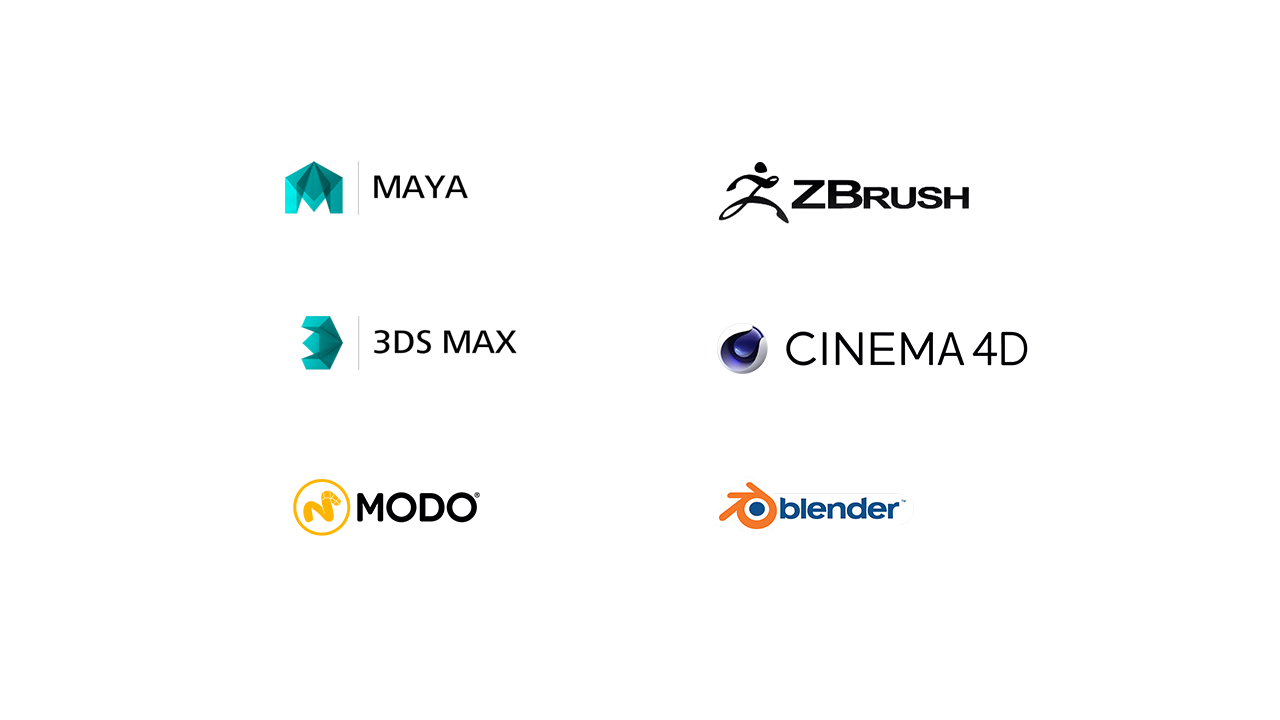
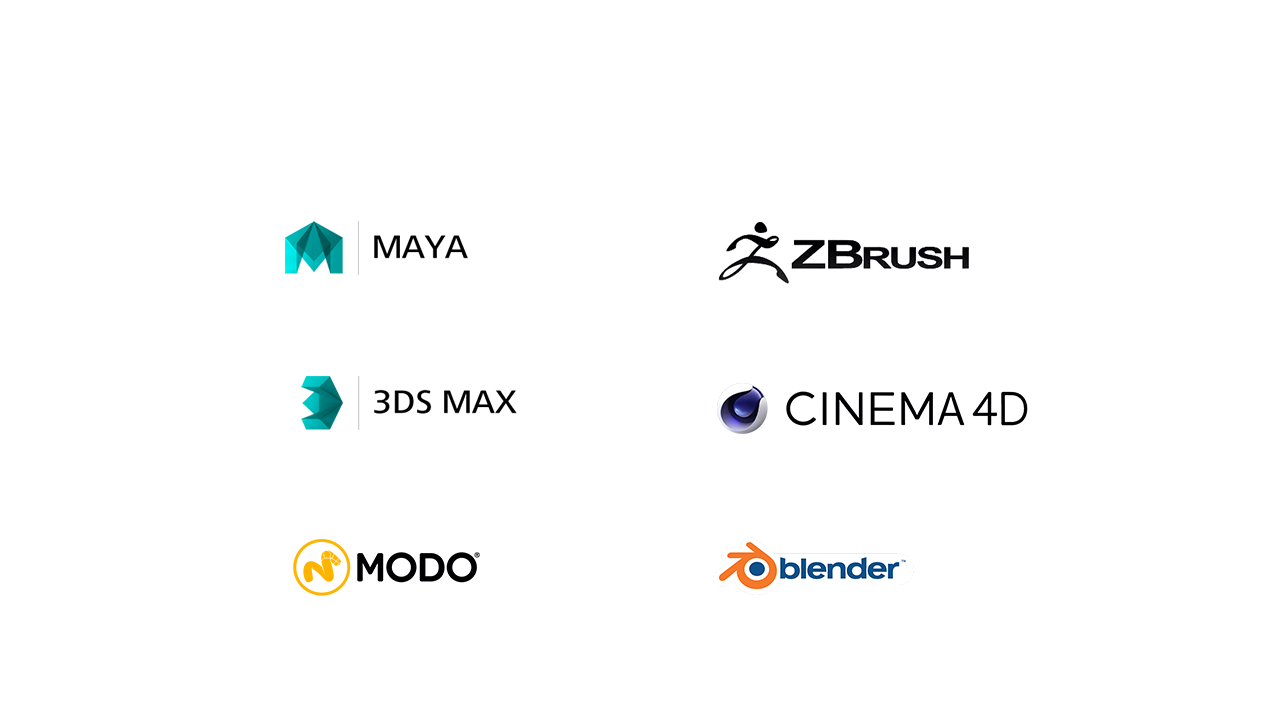
extended version dcc and sublime completions slides cleanup

diff --git a/frontporch14/offline-extended.html b/frontporch14/offline-extended.html
@@ -404,13 +404,22 @@ material.color.getHSL()</code></pre>
 
     <section class="slide">
       <h2>Sublime Auto Complete</h2>
-      <p><a href="https://github.com/mrdoob/three.js/tree/master/utils/editors" target="_blank">/three.js/utils/editors/sublimetext2/threejs.sublime-completions</a><br>
+      <!-- https://github.com/mrdoob/three.js/tree/master/utils/editors -->
+      <!-- Repo from history at last commit before this was removed: -->
+      <!-- Regenerate that file for latest version using python script -->
+      <p><a href="https://github.com/mrdoob/three.js/blob/9566ec9da2355f3fe4370c52335a21cabfc5f420/utils/editors/sublimetext2/threejs.sublime-completions" target="_blank">/three.js/utils/editors/sublimetext2/threejs.sublime-completions</a><br>
       Copy to folder: Sublime Text 2/Packages/User</p>
+      <!-- This was removed from Three.js repo: -->
+      <!-- https://github.com/mrdoob/three.js/commit/e89ec85990bb0c2a24626232967fb841f51a1ff5#diff-2b3583e6e17721c54496bd04e57a0c15 -->
+      <!-- Use this instead? -->
+      <!-- https://github.com/mflux/threesublimecompletions -->
       <video src="videos/sublime-completions.mp4"></video>
     </section>
 
     <section class="slide">
       <img src="images/3d-software.png" alt="" class="spotlight">
+      <h2>DCC Software</h2>
+      <small>Digital Content Creation</small>
     </section>
 
     <section class="slide">
